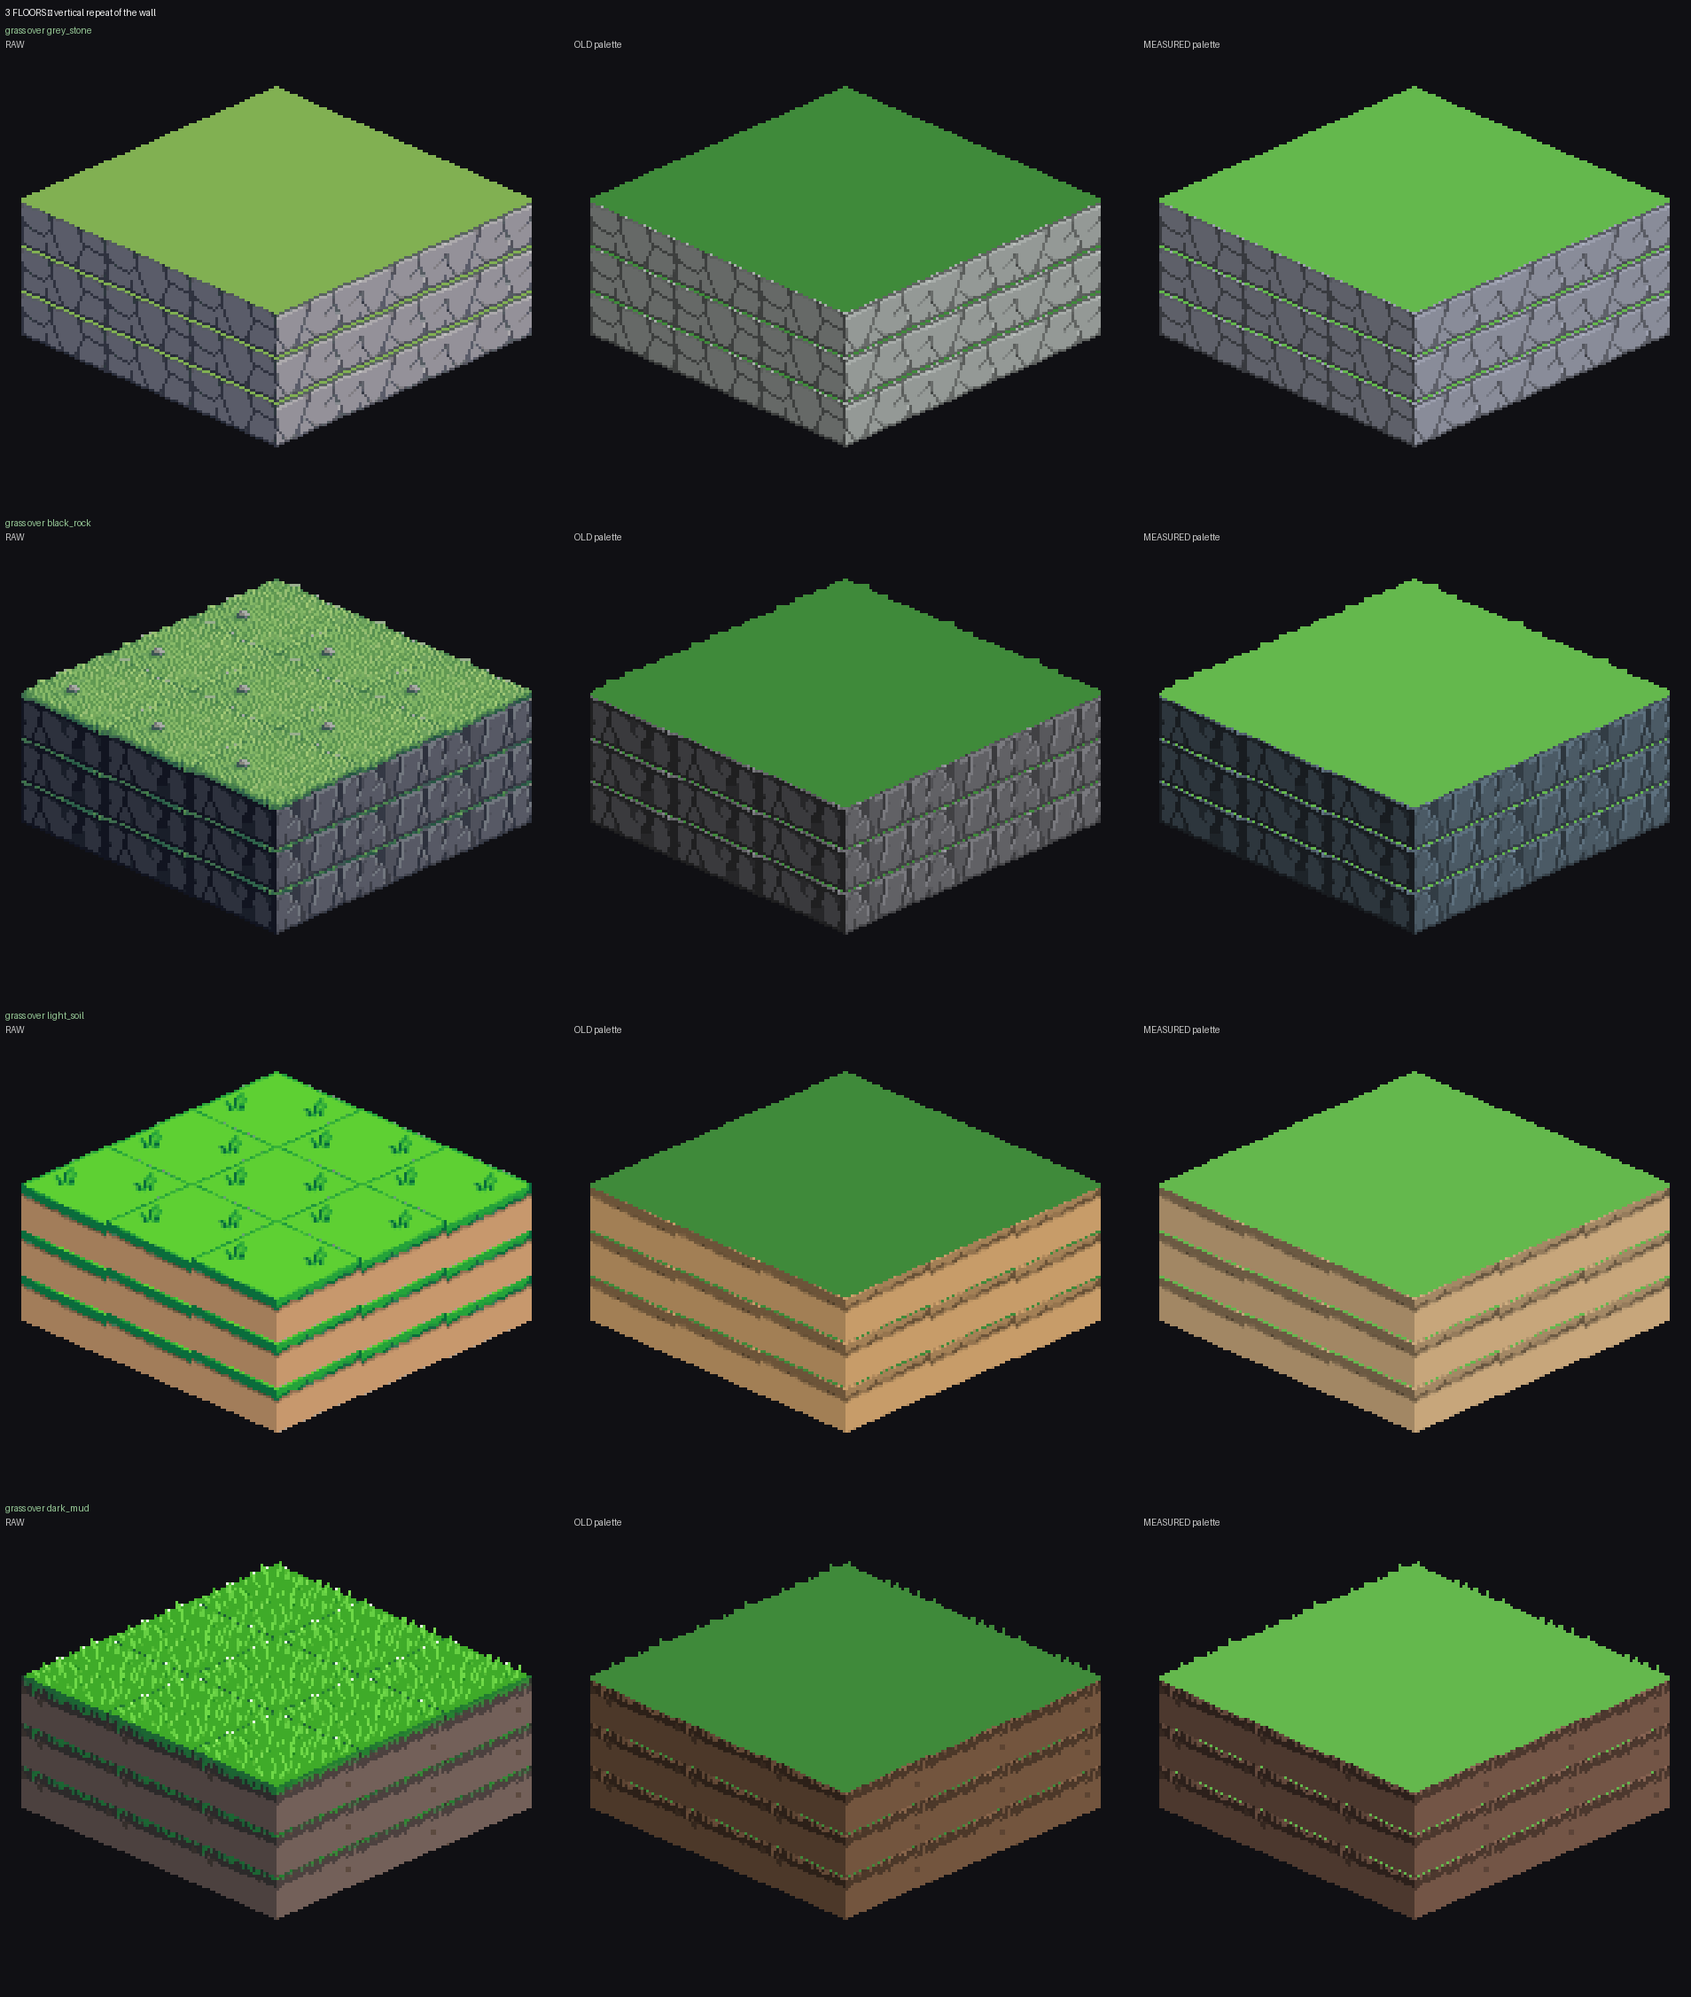
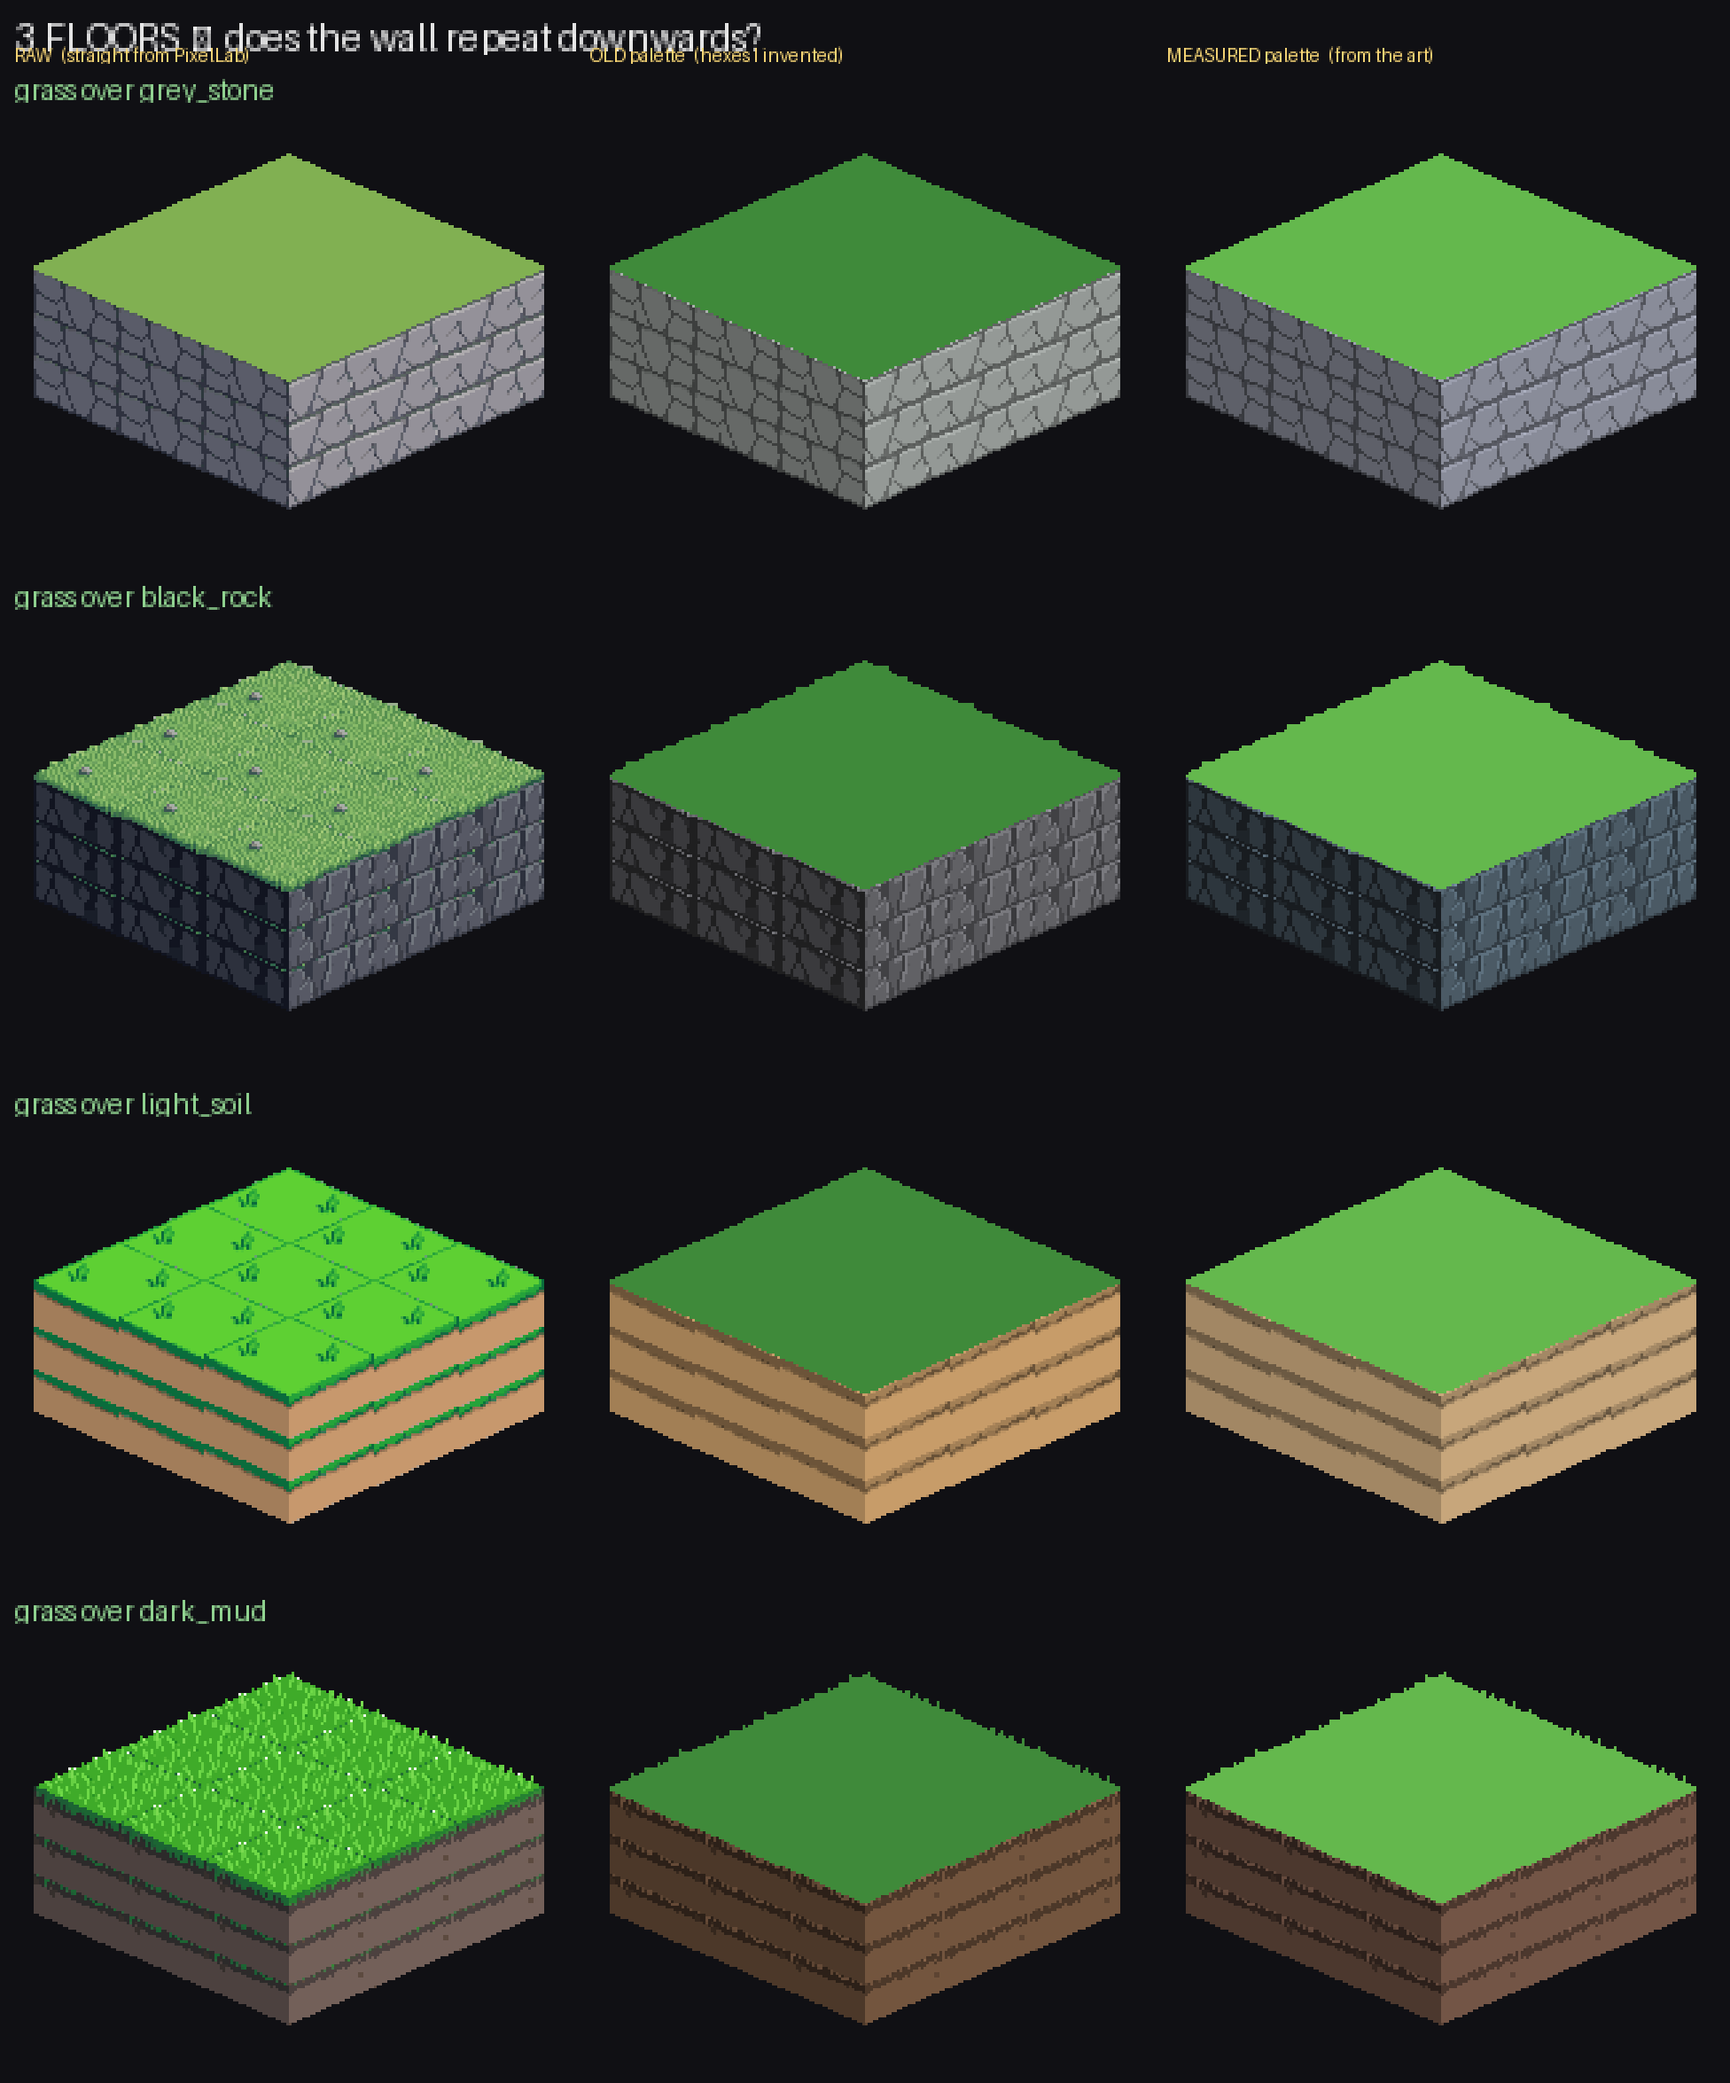
tiles: stacking pitch must come from the mask, not the diamond — it was 1 too big
The first 3-floor render put bright green stripes across the cliff at every storey.
Not the art: wall_height derived the pitch from the bare top diamond, while
palette_snap's top mask deliberately includes the diamond's boundary row. The two
disagreed by exactly that row, so the wall came out 17 where the mask's wall is 16 and
every floor left 114 pixels of the block below's top surface showing.

Derive it from palette_snap._regions instead, so the renderer and the postprocessor
can no longer disagree about where the wall starts. Take the MINIMUM across columns:
the wall is a row shorter at the tile's left and right corners than in the middle, and
a pitch that fits the tallest column still leaks at the shortest.

Measured on grey_stone, black_rock, light_soil and dark_mud at 3 floors: detached
green in the cliff 384 -> 0, no holes introduced. (dark_mud reports interior
transparency at any pitch; that is the grass blades poking above the silhouette, 17 of
them in the single tile.)

Also make the render's labels legible — the previous one was unreadable at the size it
is actually viewed, which made it useless for the judgement it exists to support.

Claude-Session: https://claude.ai/code/session_01RKKCqXujp3cRmhRYDQtdYv

diff --git a/tiles/pipeline/render.py b/tiles/pipeline/render.py
@@ -47,21 +47,33 @@ DX, DY = 32, 14
 def wall_height(tile):
     """How far one floor drops — MEASURED, like DY and the top diamond.
 
-    A floor's cliff face runs from the top diamond's bottom vertex to the bottom of the
-    silhouette, so that distance IS the stacking pitch: offset two blocks by it and the
-    lower one's wall starts exactly where the upper one's ends. On a 64px tile it is 17.
+    A floor's cliff face runs from the bottom of the TOP REGION to the bottom of the
+    silhouette, so that distance is the stacking pitch: offset two blocks by it and the
+    upper one's wall ends exactly where the lower one's begins, covering the lower
+    block's top surface completely.
 
-    Guessing 16 (the tidy power of two) overlaps every floor by a row, which puts a
-    hitch into the vertical repeat at each storey — precisely the thing a multi-floor
-    render exists to show. Every constant in this file has now been wrong once by
-    assuming a round number, so this one is read off the art too.
+    It must come from palette_snap's own mask, not from the bare diamond, or the two
+    disagree by the boundary row the mask deliberately includes. Deriving it from the
+    diamond gave 17 where the mask's wall is 16, and that one row exposed 114 pixels of
+    each lower floor's top per tile — which is what put bright green stripes across the
+    cliff at every storey in a 3-floor render.
+
+    Taken as the MINIMUM across columns, since the wall is a row shorter at the tile's
+    left and right corners than in the middle, and a pitch that fits the tallest column
+    still leaks at the shortest.
     """
-    a = np.asarray(tile.convert("RGBA"))
+    a = np.asarray(tile.convert("RGBA")).astype(float)
     op = a[:, :, 3] > 128
-    ys, xs = np.where(op)
-    x0, x1, y0 = int(xs.min()), int(xs.max()), int(ys.min())
-    hh = float(np.mean([int(np.where(op[:, x])[0].min()) - y0 for x in (x0, x1)]))
-    return int(round(int(ys.max()) - (y0 + 2 * hh)))
+    reg = palette_snap._regions(a)
+    if not reg:
+        return 0
+    gaps = []
+    for x in range(a.shape[1]):
+        t = np.where(reg["top"][:, x])[0]
+        o = np.where(op[:, x])[0]
+        if len(t) and len(o):
+            gaps.append(int(o.max()) - int(t.max()))
+    return int(min(gaps)) if gaps else 0
 
 
 def plateau(tile, cols=4, rows=4, level=1, pad=8, floors=1):
